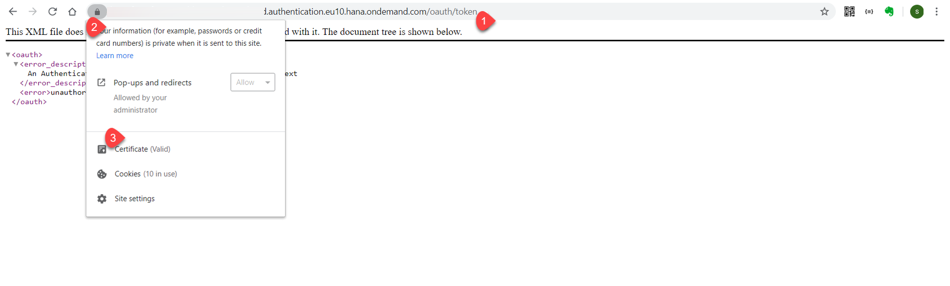
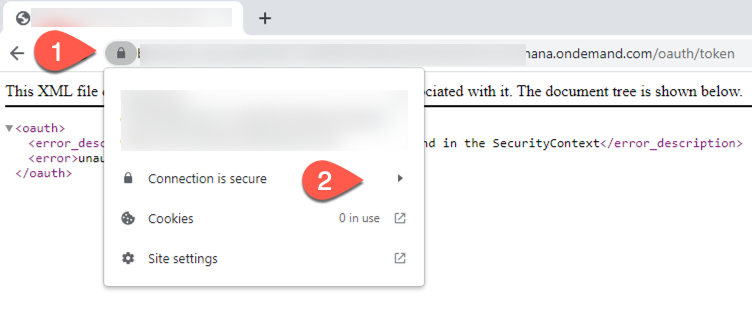
fix download cert

diff --git a/mission/enable-eventing/README.md b/mission/enable-eventing/README.md
@@ -26,27 +26,32 @@ In this section, we describe steps how to configure your on-premise backend syst
    
    ![copy EM Token Endpoint](./images/copyEMTokenEndpoint.png)
    
-5. Once you open the Token Endpoint URL, Click on Cancel in the popup and Click on view site information button (lock symbol on top left corner) and click on **Certificate**.
+5. Once you open the Token Endpoint URL, select **Cancel** in the popup and choose the view site information button (lock symbol on top left corner). Select **Connection is secure**.
 
    ![download Certificate1](./images/downloadCertificate1.png)
    
-6. Click on **Details** and click **Copy to files**.
+6. Choose **Certificate is valid**
+   
+   ![download Certificate1](./images/downloadCertificate1a.png)
+   
+
+7. Select **Details** and choose **Copy to files**.
 
    ![download Certificate2](./images/downloadCertificate2.png)
    
-7. Now **Certificate Export Wizard** opens, click on **Next**.
+8. Now **Certificate Export Wizard** opens, select **Next**.
 
    ![download Certificate3](./images/downloadCertificate3.png)
    
-8. Select the format as **DER encoded binary X.509 (.CER)** and click **Next**.
+9.  Select the format as **DER encoded binary X.509 (.CER)** and choose **Next**.
 
     ![download Certificate4](./images/downloadCertificate4.png)
     
-9. Select a folder to export the certificate and click **Next**.
+10. Select a folder to export the certificate and choose **Next**.
    
    ![download Certificate5](./images/downloadCertificate5.png)
    
-10. Click **Finish** to export the certificate. Now we have exported the Event Mesh certificate.
+11. Choose **Finish** to export the certificate. Now we have exported the Event Mesh certificate.
 
     ![download Certificate6](./images/downloadCertificate6.png)
     
